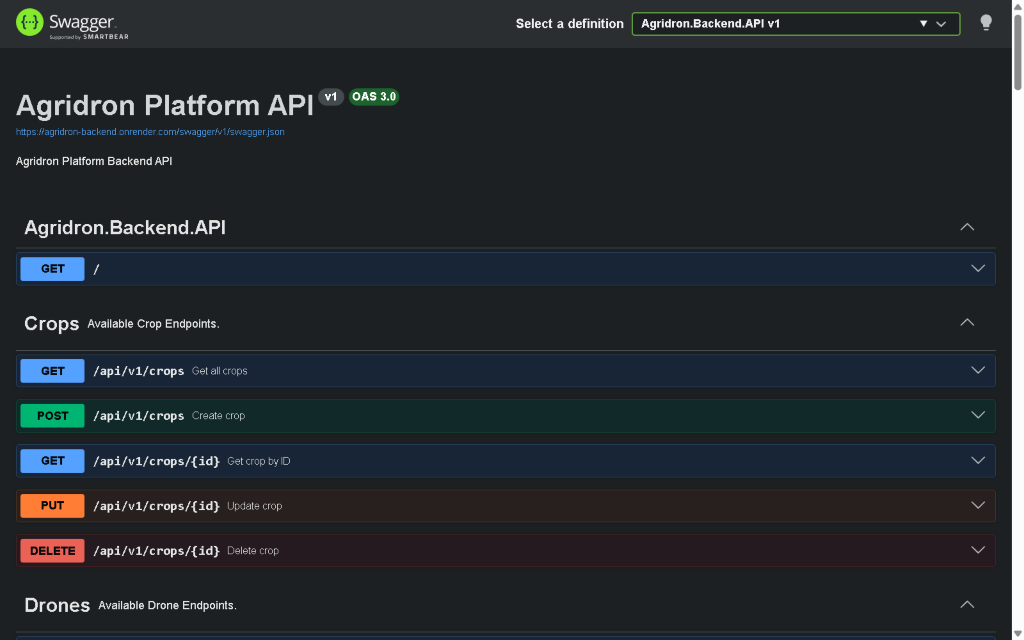
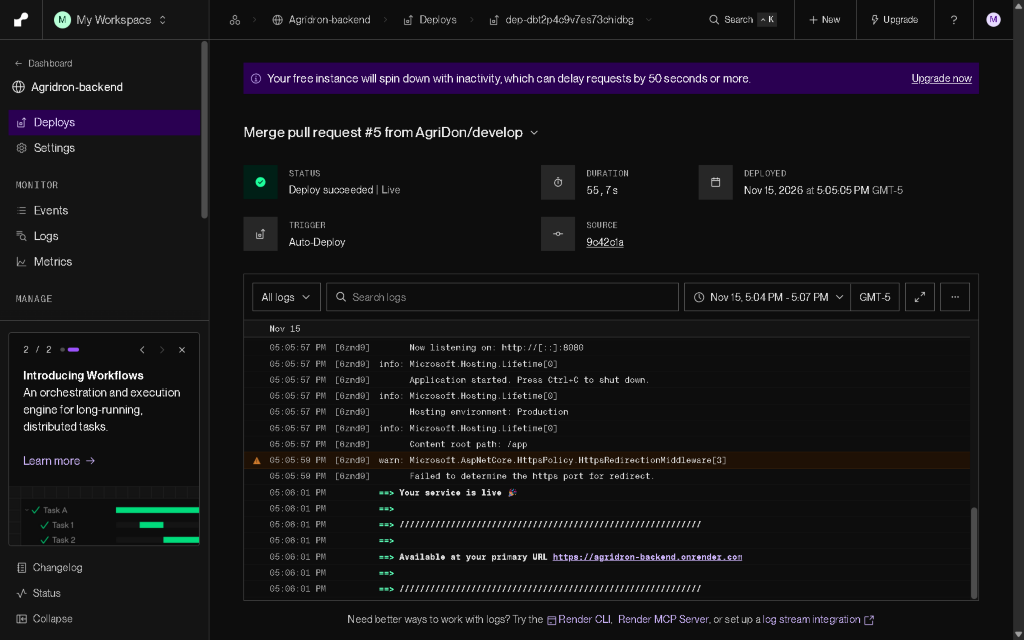
docs(sprint3): add Render and Filess.io console deployment captures

diff --git a/README.md b/README.md
@@ -3489,11 +3489,15 @@ Durante el Sprint 3 se ejecutó el despliegue en la nube de todos los componente
 
 ![Evidencia de Despliegue de Backend en Render](assets/chapter5/sprint3/deploy-render-backend.png)
 
-*Figura: Despliegue activo y saludable de AgriDron Backend API en Render.com conectado a MySQL.*
+*Figura: Panel de Render.com (`Agridron-backend`) mostrando deploy `Live` exitoso (`dep-dbt2p4c9v7es73chidbg`, commit `9c42c1a`, puerto `8080`) y URL activa `https://agridron-backend.onrender.com`.*
 
 ![Evidencia de Despliegue de Frontend en Render Static Site](assets/chapter5/sprint3/deploy-render-frontend.png)
 
-*Figura: Web Application de AgriDron desplegada en Render Static Site (`https://agridron-frontend.onrender.com`) consumiendo la API de producción.*
+*Figura: Panel de Render.com (`agridron-frontend`, Static Site) mostrando compilación Vite exitosa (`dist/`), estado `Deploy succeeded | Live` (`dep-dbrvtu67bikc73egkhv0`, commit `69492a4`) y publicación en CDN.*
+
+![Evidencia de Base de Datos MySQL en Filess.io](assets/chapter5/sprint3/deploy-filess-mysql.png)
+
+*Figura: Panel de Filess.io mostrando la instancia MySQL v8.0.29 `agridron_db_firststage` en estado `ACTIVE` (región `Spain sp-2`, host `kggahz.h.filess.io`, puerto `3307`).*
 
 ![Evidencia de Despliegue de Landing Page en GitHub Pages](assets/chapter5/sprint3/deploy-landing-github-pages.png)
 
